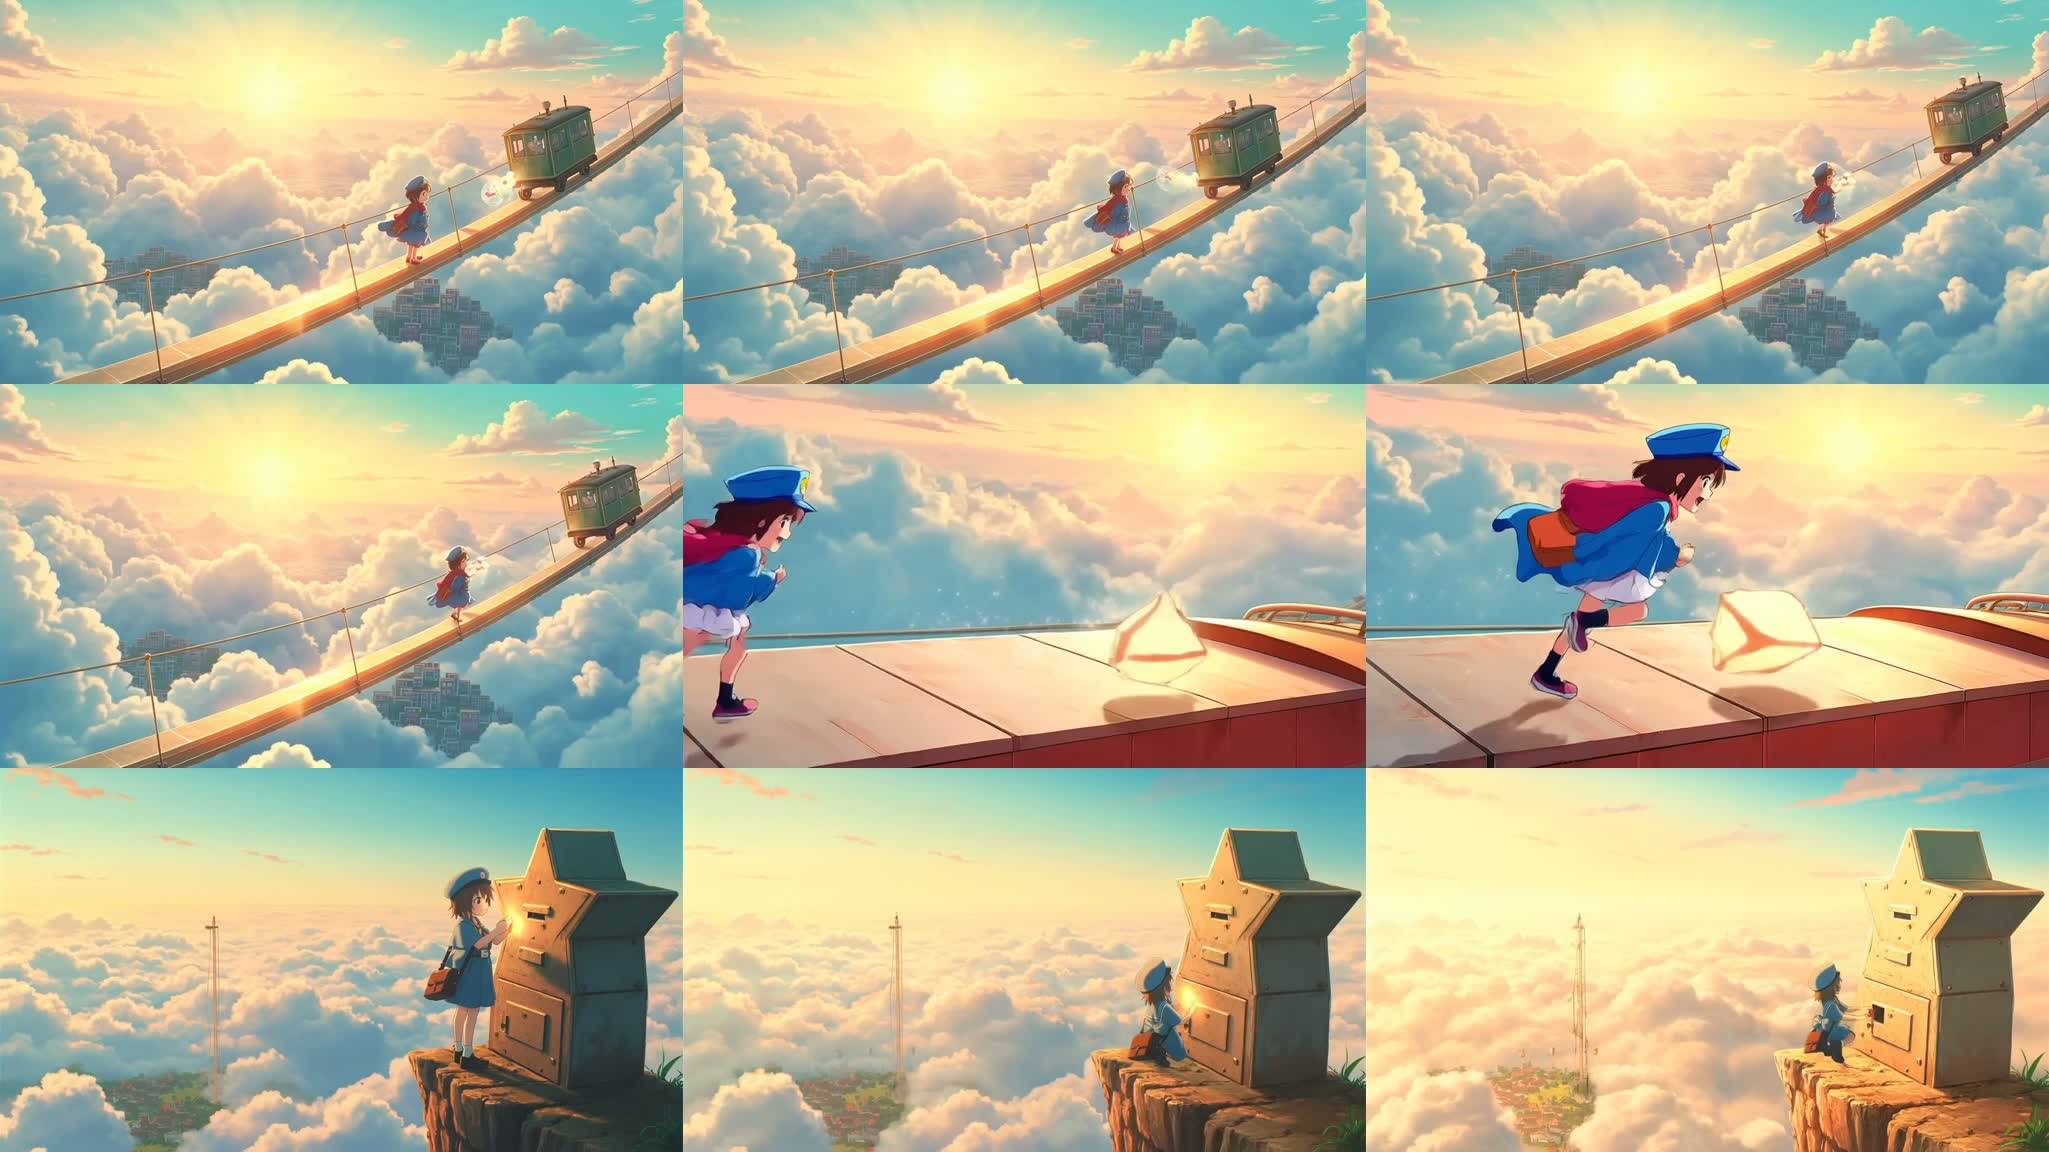
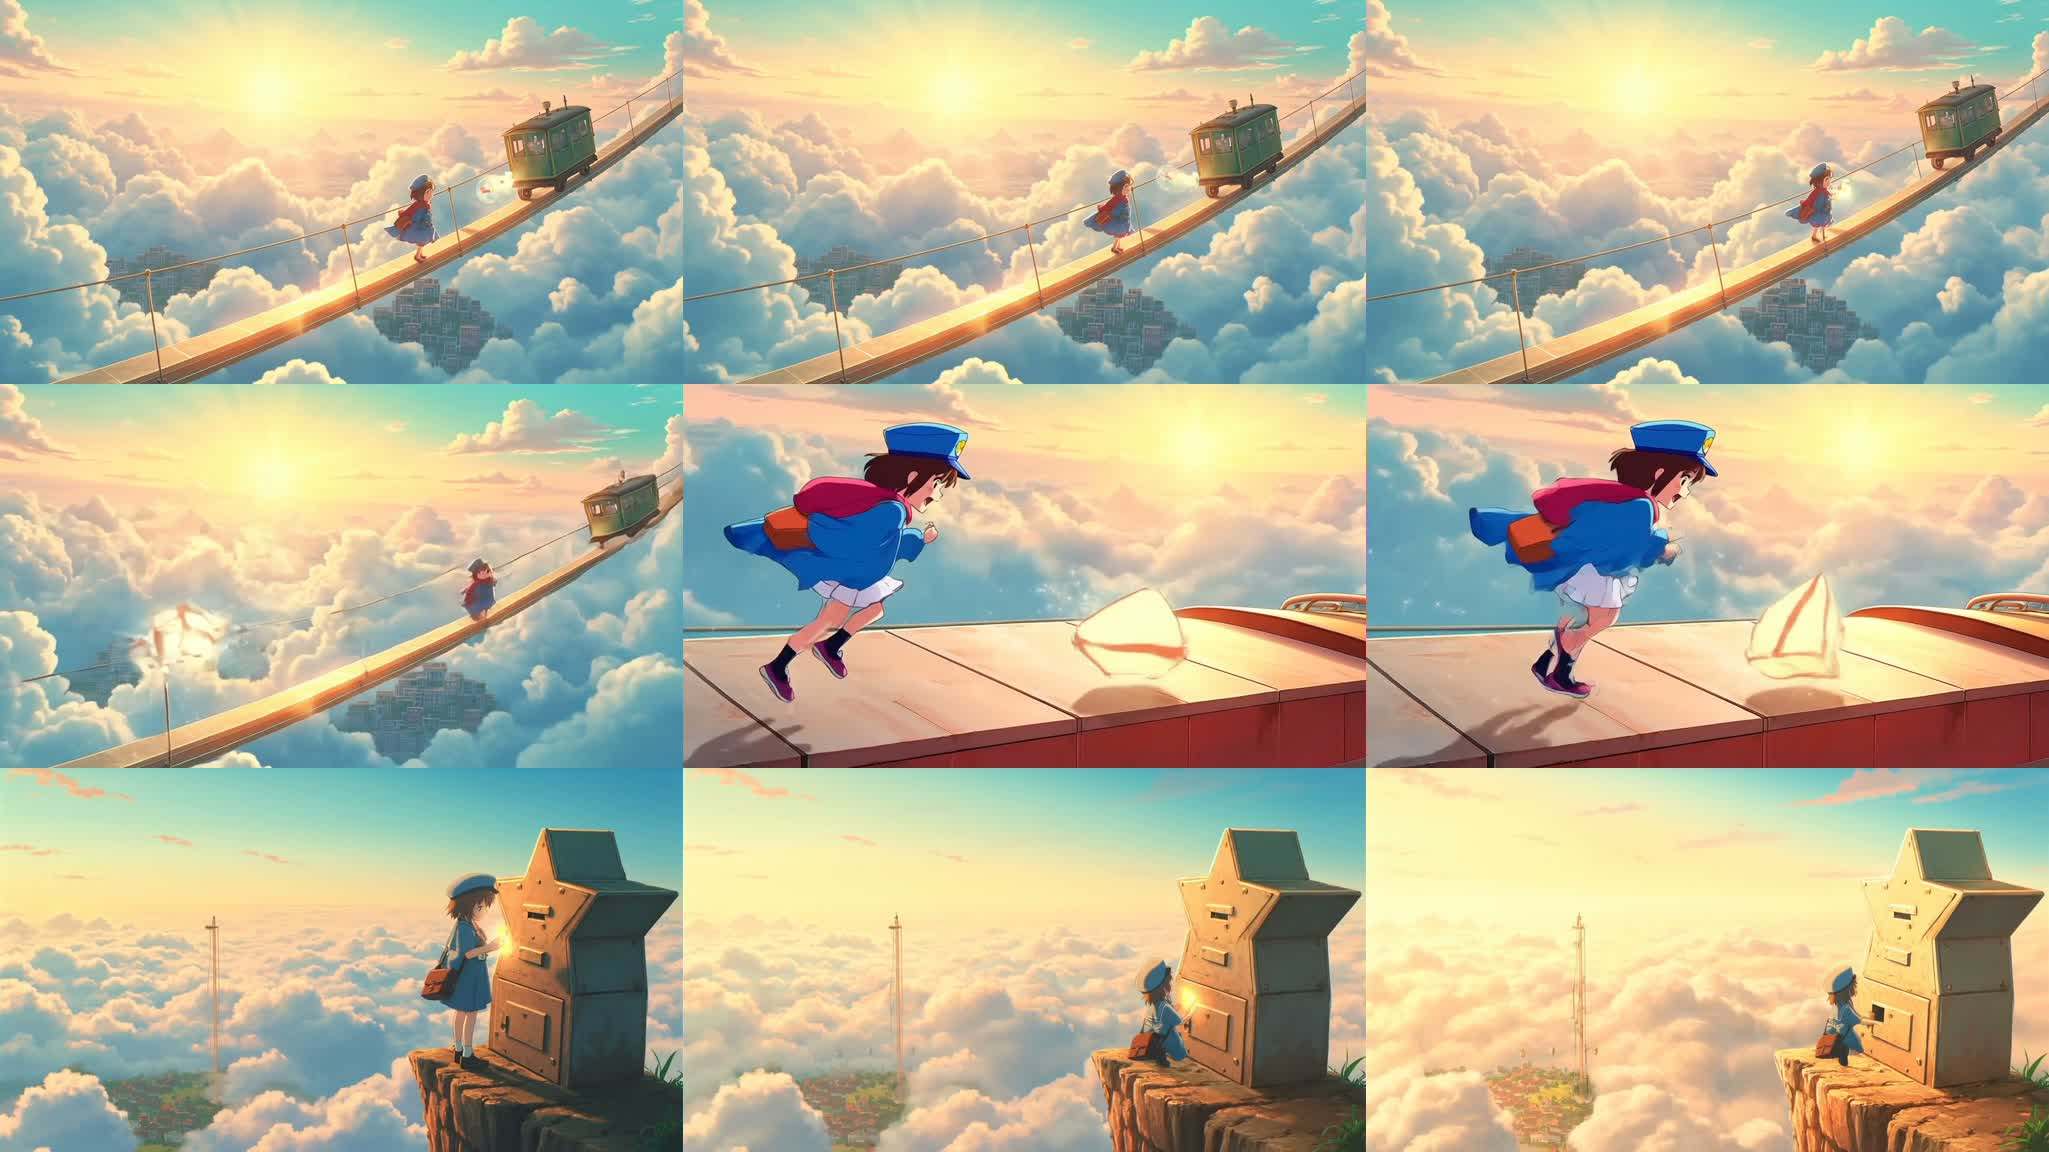
Refine cloud postgirl cover and docs

diff --git a/examples/cloud-postgirl-runaway-star-fast-20260405/README.md b/examples/cloud-postgirl-runaway-star-fast-20260405/README.md
@@ -2,12 +2,21 @@
 
 这个目录保留当前仓库中云端邮差 Fast 案例的精选示例。
 
+![Cloud Postgirl Runaway Star Fast](cover.jpg)
+
 案例特点：
 
 - 使用 `MiniMax-Hailuo-2.3-Fast`
 - 采用 `anchor still -> i2v` workflow
 - 三段式故事主题是晨曦云海中的见习少女邮差追逐逃跑星屑包裹
 - 已完成多候选配乐打分、选优与最终合成
+
+封面说明：
+
+- `cover.jpg` 不是单个 shot 的 contact sheet
+- 它是从三个成片镜头里各抽取 3 帧后拼成的 `3 x 3` 九宫格
+- 第一行对应 `shot-01`，第二行对应 `shot-02`，第三行对应 `shot-03`
+- `shot-01-contact.jpg`、`shot-02-contact.jpg`、`shot-03-contact.jpg` 依然保留，作为每段镜头各自的 contact sheet
 
 包含内容：
 
@@ -16,7 +25,7 @@
 - `sequence-preview.mp4`
   三段无声预览片
 - `cover.jpg`
-  案例封面
+  三镜头九宫格关键帧总览
 - `shot-01-contact.jpg`
 - `shot-02-contact.jpg`
 - `shot-03-contact.jpg`

diff --git a/README.md b/README.md
@@ -80,6 +80,8 @@
 
 ![Cloud Postgirl Runaway Star Fast](examples/cloud-postgirl-runaway-star-fast-20260405/cover.jpg)
 
+- 案例说明：[README.md](examples/cloud-postgirl-runaway-star-fast-20260405/README.md)
+- 封面说明：`3 x 3` 关键帧九宫格，三行分别对应 `shot-01`、`shot-02`、`shot-03`
 - 带配乐成片：[final-with-music.mp4](examples/cloud-postgirl-runaway-star-fast-20260405/final-with-music.mp4)
 - 无声预览片：[sequence-preview.mp4](examples/cloud-postgirl-runaway-star-fast-20260405/sequence-preview.mp4)
 - 分镜：[storyboard.md](examples/cloud-postgirl-runaway-star-fast-20260405/storyboard.md)
